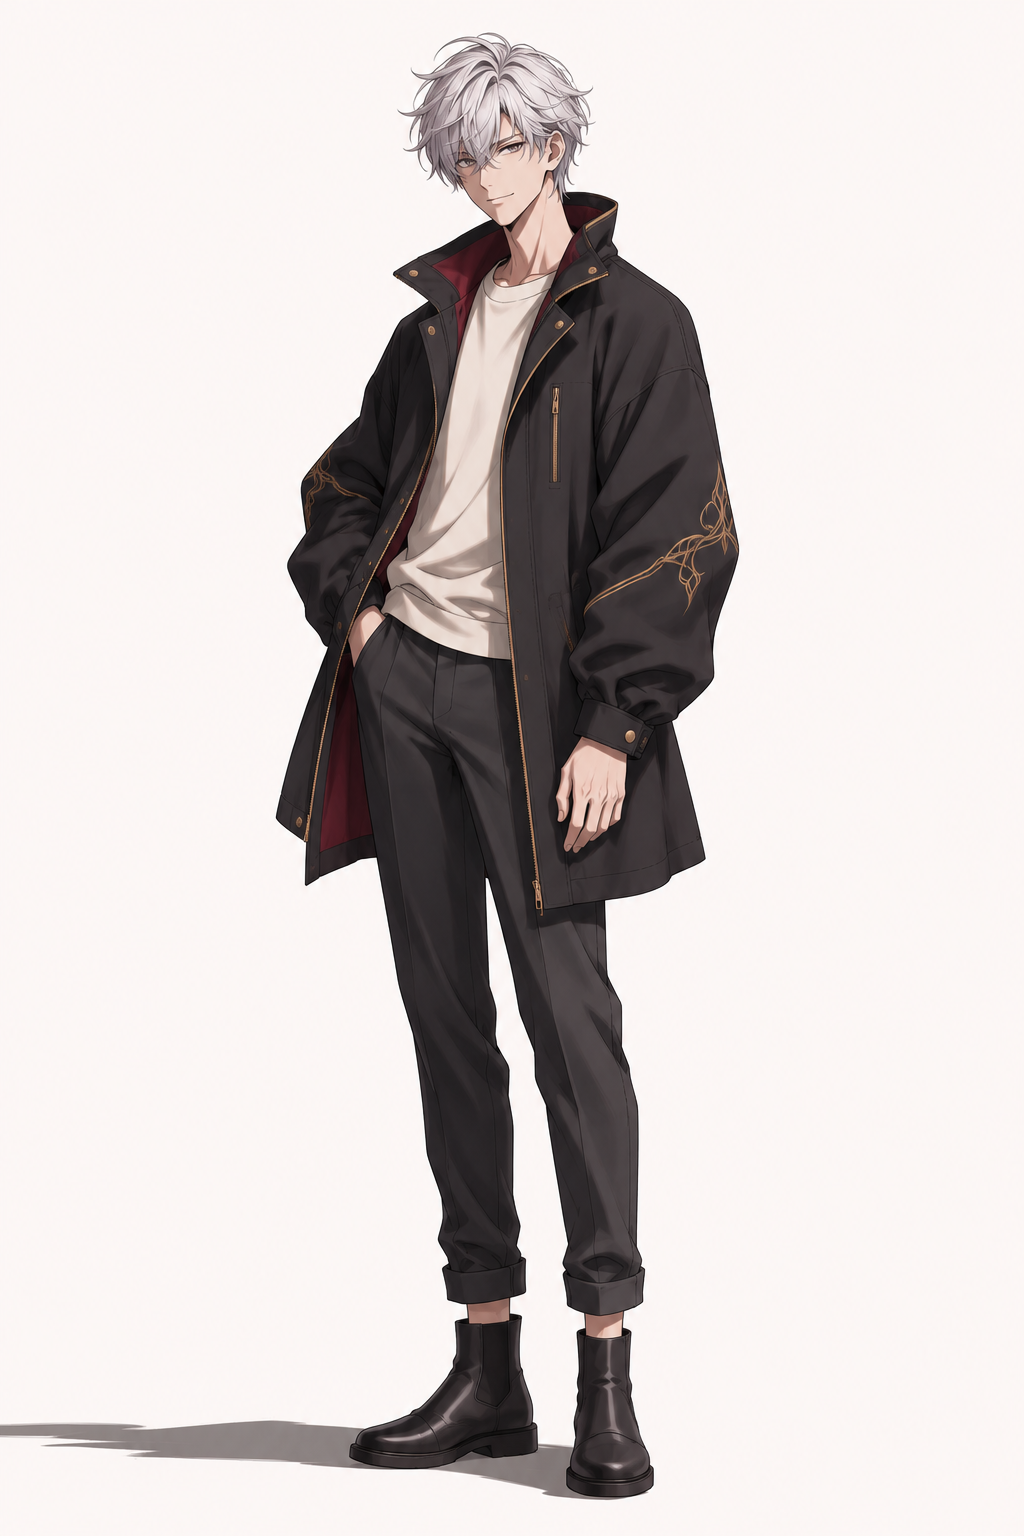
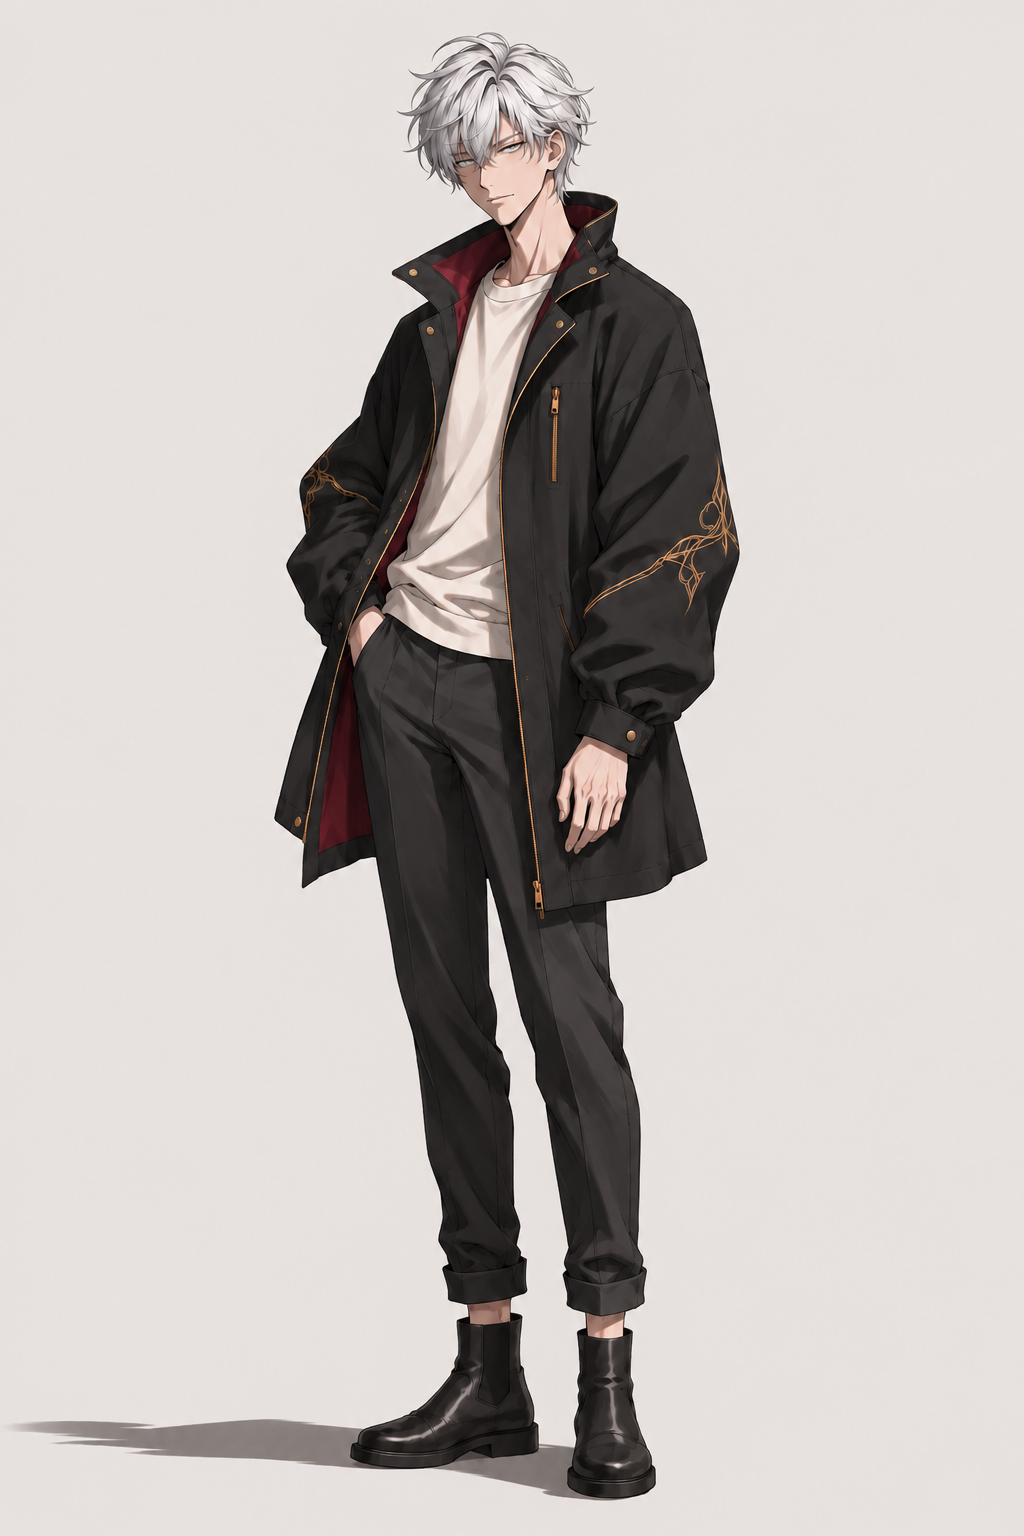
Update member profile visuals

diff --git a/css/member-profile.css b/css/member-profile.css
@@ -9,13 +9,13 @@ a { color: inherit; text-decoration: none; }
 .wordmark { font: 700 21px/1 "Space Grotesk", sans-serif; letter-spacing: .14em; }
 .back-link { padding: 10px 0; color: #4d4b48; }
 .profile-hero { min-height: calc(100svh - 74px); display: grid; grid-template-columns: minmax(360px, .95fr) 1.05fr; border-bottom: 1px solid var(--line); }
-.portrait-panel { position: relative; min-height: 650px; overflow: hidden; background: #d8d4cb; }
+.portrait-panel { position: relative; min-height: 650px; display: flex; align-items: center; justify-content: center; overflow: hidden; background: #EAE6E4; }
 .portrait-panel::after { content: ""; position: absolute; inset: 0; background: linear-gradient(180deg, rgba(0,0,0,.04), rgba(0,0,0,.16)); pointer-events: none; }
-.portrait-panel img { display: block; width: 100%; height: 100%; object-fit: cover; object-position: center top; }
+.portrait-panel img { display: block; width: min(88%, 560px); height: auto; max-height: calc(100% - 48px); object-fit: contain; }
 .portrait-index { position: absolute; z-index: 1; top: 26px; left: 28px; margin: 0; color: #fff; font: 500 11px/1 "DM Mono", monospace; letter-spacing: .12em; }
-.intro-panel { align-self: center; padding: clamp(55px, 8vw, 130px); }
+.intro-panel { align-self: start; padding: clamp(42px, 5vw, 76px) clamp(55px, 8vw, 130px); }
 .eyebrow, .section-label { font: 500 11px/1.4 "DM Mono", monospace; color: var(--accent); letter-spacing: .1em; }
-h1 { margin: 19px 0 34px; font: 600 clamp(65px, 9vw, 142px)/.78 "Noto Serif KR", serif; letter-spacing: -.07em; }
+h1 { margin: 19px 0 34px; font: 600 clamp(52px, 7.2vw, 114px)/.78 "Noto Serif KR", serif; letter-spacing: -.07em; }
 h1 span { display: block; margin-top: 24px; font: 500 13px/1 "DM Mono", monospace; letter-spacing: .19em; }
 .lead { margin: 0; font-size: clamp(18px, 2vw, 25px); line-height: 1.8; letter-spacing: -.04em; }
 .quote { margin: 44px 0; padding-left: 18px; border-left: 2px solid var(--accent); color: #55514d; font-size: 15px; line-height: 1.9; }
@@ -23,8 +23,13 @@ h1 span { display: block; margin-top: 24px; font: 500 13px/1 "DM Mono", monospac
 .profile-facts div { padding: 17px 0; border-bottom: 1px solid var(--line); }
 .profile-facts div:nth-child(odd) { padding-right: 18px; }.profile-facts div:nth-child(even) { padding-left: 18px; border-left: 1px solid var(--line); }
 dt { margin-bottom: 7px; font: 500 10px/1 "DM Mono", monospace; color: var(--muted); letter-spacing: .1em; } dd { margin: 0; font-size: 13px; }
+.taehwi-companion { width: min(46%, 240px); margin: 26px 0 0 auto; }.taehwi-companion img { display: block; width: 100%; height: auto; }
+.ruon-companion { width: min(46%, 240px); margin: 26px 0 0; }.ruon-companion img { display: block; width: 100%; height: auto; }
+.seorin-companion { width: min(46%, 240px); margin: 26px 0 0 auto; }.seorin-companion img { display: block; width: 100%; height: auto; }
+.ryuhyun-companion { width: min(46%, 240px); margin: 36px 12% 0 auto; }.ryuhyun-companion img { display: block; width: 100%; height: auto; }
+.yulgyeom-companion { width: min(46%, 240px); margin: 46px 24% 0 auto; }.yulgyeom-companion img { display: block; width: 100%; height: auto; }
 .story-section { display: grid; grid-template-columns: minmax(180px, .6fr) minmax(0, 1.4fr); gap: 10vw; padding: clamp(70px, 11vw, 170px) clamp(22px, 12vw, 200px); }
 .story-section-alt { background: var(--ink); color: #f5f3ee; }.story-section-alt .section-label { color: #e28b7f; }
 .section-label span { display: inline-block; width: 42px; }.story-copy { max-width: 690px; }.story-copy h2 { margin: 0 0 40px; font-size: clamp(31px, 4vw, 59px); line-height: 1.3; letter-spacing: -.07em; }.story-copy p { margin: 0 0 22px; color: #4f4d49; font-size: 16px; line-height: 2; word-break: keep-all; }.story-section-alt .story-copy p { color: #c6c1ba; }
 footer { padding: 30px 22px; background: var(--ink); color: #9d9b98; text-align: center; font: 10px/1 "DM Mono", monospace; letter-spacing: .1em; }
-@media (max-width: 760px) { .profile-hero, .story-section { grid-template-columns: 1fr; }.portrait-panel { min-height: 580px; }.intro-panel { padding: 64px 28px 72px; }.story-section { gap: 36px; padding: 76px 28px; }.story-copy h2 { margin-bottom: 28px; }.profile-facts { grid-template-columns: 1fr; }.profile-facts div:nth-child(even) { padding-left: 0; border-left: 0; }.profile-facts div:nth-child(odd) { padding-right: 0; } }
+@media (max-width: 760px) { .profile-hero, .story-section { grid-template-columns: 1fr; }.portrait-panel { min-height: 580px; }.portrait-panel img { width: min(84%, 470px); max-height: calc(100% - 48px); }.intro-panel { padding: 48px 28px 72px; }.taehwi-companion, .ruon-companion, .seorin-companion, .ryuhyun-companion, .yulgyeom-companion { width: min(52%, 240px); }.ryuhyun-companion { margin-right: 8%; }.yulgyeom-companion { margin-right: 16%; }.story-section { gap: 36px; padding: 76px 28px; }.story-copy h2 { margin-bottom: 28px; }.profile-facts { grid-template-columns: 1fr; }.profile-facts div:nth-child(even) { padding-left: 0; border-left: 0; }.profile-facts div:nth-child(odd) { padding-right: 0; } }

diff --git a/members/yulgyeom.html b/members/yulgyeom.html
@@ -1,7 +1,7 @@
 <!DOCTYPE html>
 <html lang="ko"><head><meta charset="UTF-8"><meta name="viewport" content="width=device-width, initial-scale=1.0"><title>율겸 | WOLDAM</title><meta name="description" content="WOLDAM 멤버 율겸의 프로필과 이야기"><link rel="stylesheet" href="../css/member-profile.css"></head>
 <body><header class="profile-header"><a class="wordmark" href="../index.html">WOLDAM</a><a class="back-link" href="../index.html#members">← Members</a></header><main>
-<section class="profile-hero"><div class="portrait-panel"><p class="portrait-index">MEMBER 04 / 05</p><img src="../assets/members/율겸/fullbody.png" alt="율겸 전신 이미지"></div><div class="intro-panel"><p class="eyebrow">WOLDAM MEMBER</p><h1>율겸<span>YULGYEOM</span></h1><p class="lead">옳고 그름만 판단하던 수호자가<br>처음으로 규칙 밖의 마음을 배우다.</p><p class="quote">“내일도 재밌으면요?”</p><dl class="profile-facts"><div><dt>ORIGIN</dt><dd>정문계(正門界)</dd></div><div><dt>ROLE</dt><dd>신계의 문을 지킨 수호자</dd></div><div><dt>HEIGHT</dt><dd>183cm</dd></div><div><dt>PERSONALITY</dt><dd>유쾌하고 능글맞은 분위기 메이커</dd></div></dl></div></section>
+<section class="profile-hero"><div class="portrait-panel"><p class="portrait-index">MEMBER 04 / 05</p><img src="../assets/members/율겸/fullbody.png" alt="율겸 전신 이미지"></div><div class="intro-panel"><p class="eyebrow">WOLDAM MEMBER</p><h1>율겸<span>YULGYEOM</span></h1><p class="lead">옳고 그름만 판단하던 수호자가<br>처음으로 규칙 밖의 마음을 배우다.</p><p class="quote">메인 댄서</p><dl class="profile-facts"><div><dt>ORIGIN</dt><dd>정문계(正門界)</dd></div><div><dt>ROLE</dt><dd>신계의 문을 지킨 수호자</dd></div><div><dt>HEIGHT</dt><dd>183cm</dd></div><div><dt>PERSONALITY</dt><dd>유쾌하고 능글맞은 분위기 메이커</dd></div></dl><figure class="yulgyeom-companion"><img src="../assets/members/율겸/haetae.png" alt="율겸의 해태"></figure></div></section>
 <section class="story-section"><div class="section-label"><span>01</span> THE KEEPER OF JUDGMENT</div><div class="story-copy"><h2>옳은 것은 옳고,<br>그른 것은 그른 것.</h2><p>율겸은 신계와 인간 세상의 경계를 지키며 거짓과 진실을 꿰뚫어 보고 판단해 왔다. 그의 세계에서 이치는 단순했다. 잘못에는 대가가 따라야 하고, 심판자는 한 치의 망설임도 없어야 했다.</p><p>그러나 인간들은 누군가를 지키기 위해 거짓말을 하고, 잘못을 저지른 이를 용서하기도 했다. 그 모순은 율겸에게 낯선 질문을 남겼다.</p></div></section>
 <section class="story-section story-section-alt"><div class="section-label"><span>02</span> A RICE CAKE AND MERCY</div><div class="story-copy"><h2>잘못보다 먼저<br>사정을 보게 된 날.</h2><p>흉년의 잔치에서 한 아이가 떡을 몰래 가져갔다. 어른은 아이를 꾸짖는 대신 떡 하나를 더 건넸고, 아이는 병든 어머니에게 그것을 전했다. 율겸은 처음으로 옳고 그름만으로는 모든 마음을 판단할 수 없다는 사실을 마주했다.</p><p>완벽하지 않은 사람들이 서로의 부족함을 받아들이며 웃는 잔치. 그는 임무가 끝나는 밤마다 그 풍악에 귀를 기울이게 되었다.</p></div></section>
 <section class="story-section"><div class="section-label"><span>03</span> THE FIRST LIE</div><div class="story-copy"><h2>심판자가 내린,<br>처음의 일탈.</h2><p>가족을 위해 곡식을 훔친 사내에게 정해진 판결을 내린 뒤, 율겸은 인간들이 말하는 너그러움을 직접 알고 싶어졌다. 처음으로 자신이 지키던 문을 떠난 그는 잔치에서 “그냥 지나가던 사람”이라는 작은 거짓말을 했다.</p><p>사람들과 노래하고 춤추며, 그는 누군가에게 즐거움을 주는 존재가 되는 기쁨을 알았다. 이제 율겸은 팀의 분위기 메이커로서, 잘못 없는 세상보다 다시 웃을 수 있는 세상을 지키고자 한다.</p></div></section></main><footer>© WOLDAM. ALL RIGHTS RESERVED.</footer></body></html>

diff --git a/members/ruon.html b/members/ruon.html
@@ -1,7 +1,7 @@
 <!DOCTYPE html>
 <html lang="ko"><head><meta charset="UTF-8"><meta name="viewport" content="width=device-width, initial-scale=1.0"><title>루온 | WOLDAM</title><meta name="description" content="WOLDAM 멤버 루온의 프로필과 이야기"><link rel="stylesheet" href="../css/member-profile.css"></head>
 <body><header class="profile-header"><a class="wordmark" href="../index.html">WOLDAM</a><a class="back-link" href="../index.html#members">← Members</a></header><main>
-<section class="profile-hero"><div class="portrait-panel"><p class="portrait-index">MEMBER 01 / 05</p><img src="../assets/members/루온/fullbody.png" alt="루온 전신 이미지"></div><div class="intro-panel"><p class="eyebrow">WOLDAM MEMBER</p><h1>루온<span>RUON</span></h1><p class="lead">누군가를 기쁘게 하는 일을<br>자신의 가장 중요한 사명으로 믿는 작은 영물.</p><p class="quote">“너도 즐거워야지.”</p><dl class="profile-facts"><div><dt>ORIGIN</dt><dd>월궁(月宮)</dd></div><div><dt>ROLE</dt><dd>월궁의 떡방아지기</dd></div><div><dt>HEIGHT</dt><dd>175cm</dd></div><div><dt>PERSONALITY</dt><dd>성실하고 책임감 강한 막내</dd></div></dl></div></section>
+<section class="profile-hero"><div class="portrait-panel"><p class="portrait-index">MEMBER 01 / 05</p><img src="../assets/members/루온/fullbody.png" alt="루온 전신 이미지"></div><div class="intro-panel"><p class="eyebrow">WOLDAM MEMBER</p><h1>루온<span>RUON</span></h1><p class="lead">누군가를 기쁘게 하는 일을<br>자신의 가장 중요한 사명으로 믿는 작은 영물.</p><p class="quote">메인 보컬</p><dl class="profile-facts"><div><dt>ORIGIN</dt><dd>월궁(月宮)</dd></div><div><dt>ROLE</dt><dd>월궁의 떡방아지기</dd></div><div><dt>HEIGHT</dt><dd>175cm</dd></div><div><dt>PERSONALITY</dt><dd>성실하고 책임감 강한 막내</dd></div></dl><figure class="ruon-companion"><img src="../assets/members/루온/moon-rabbit.png" alt="루온의 달토끼"></figure></div></section>
 <section class="story-section"><div class="section-label"><span>01</span> THE MOON PALACE</div><div class="story-copy"><h2>매일 같은 시간,<br>누군가의 풍요를 위해.</h2><p>루온은 보름달이 뜰 때마다 인간들이 풍요롭게 살기를 바라며 월궁에서 떡방아를 찧었다. 한 번도 늦잠을 자지 않고, 정해진 일을 미루지도 않았다. 그에게 자신의 일은 무엇보다 중요한 약속이었다.</p><p>다만 월궁은 인간 세상과 너무 멀었다. 자신이 만든 떡을 먹은 사람들이 얼마나 행복해하는지는 직접 볼 수 없었다.</p></div></section>
 <section class="story-section story-section-alt"><div class="section-label"><span>02</span> A SONG HEARD BELOW</div><div class="story-copy"><h2>처음으로,<br>기쁨이 바로 닿았다.</h2><p>어느 추석날 호기심을 이기지 못하고 인간 세상으로 내려온 루온은 가족들이 송편을 나누고 노래를 부르는 모습을 마주한다. 자신도 모르게 노래를 따라 부르자, 곁의 아이가 환하게 웃으며 말했다. “노래 진짜 잘한다!”</p><p>떡을 만들 때보다 더 직접적으로 누군가를 기쁘게 할 수 있다는 사실. 그 순간이 루온을 노래로 이끌었다.</p></div></section>
 <section class="story-section"><div class="section-label"><span>03</span> THE RESPONSIBLE MAKNAE</div><div class="story-copy"><h2>꼼꼼하게 준비한<br>새로운 사명.</h2><p>인간 세상에 오기 전, 루온은 월궁의 토끼들에게 자신의 일을 직접 가르치고 모든 일을 정리했다. 가장 작고 어린 멤버지만 준비성만큼은 누구보다 철저한 이유다.</p><p>지금도 그는 연습 시간표를 챙기고 형들의 지각을 단속한다. 무대에서는 실수로 관객을 실망시킬까 가장 긴장하지만, 첫 소절이 시작되면 맑고 아름다운 목소리로 모두를 기쁘게 한다.</p></div></section></main><footer>© WOLDAM. ALL RIGHTS RESERVED.</footer></body></html>

diff --git a/members/ryuhyun.html b/members/ryuhyun.html
@@ -1,7 +1,7 @@
 <!DOCTYPE html>
 <html lang="ko"><head><meta charset="UTF-8"><meta name="viewport" content="width=device-width, initial-scale=1.0"><title>류현 | WOLDAM</title><meta name="description" content="WOLDAM 멤버 류현의 프로필과 이야기"><link rel="stylesheet" href="../css/member-profile.css"></head>
 <body><header class="profile-header"><a class="wordmark" href="../index.html">WOLDAM</a><a class="back-link" href="../index.html#members">← Members</a></header><main>
-<section class="profile-hero"><div class="portrait-panel"><p class="portrait-index">MEMBER 02 / 05</p><img src="../assets/members/류현/fullbody.png" alt="류현 전신 이미지"></div><div class="intro-panel"><p class="eyebrow">WOLDAM MEMBER</p><h1>류현<span>RYUHYUN</span></h1><p class="lead">평생 하늘만 바라보던 존재가<br>처음으로 다른 삶을 선택한 순간.</p><p class="quote">“더 높은 곳보다, 지금 저 아래가 궁금했다.”</p><dl class="profile-facts"><div><dt>ORIGIN</dt><dd>잠룡연(潛龍淵)</dd></div><div><dt>ROLE</dt><dd>승천을 기다린 영물</dd></div><div><dt>HEIGHT</dt><dd>189cm</dd></div><div><dt>PERSONALITY</dt><dd>과묵하지만 속정 깊은 관찰자</dd></div></dl></div></section>
+<section class="profile-hero"><div class="portrait-panel"><p class="portrait-index">MEMBER 02 / 05</p><img src="../assets/members/류현/fullbody.png" alt="류현 전신 이미지"></div><div class="intro-panel"><p class="eyebrow">WOLDAM MEMBER</p><h1>류현<span>RYUHYUN</span></h1><p class="lead">평생 하늘만 바라보던 존재가<br>처음으로 다른 삶을 선택한 순간.</p><p class="quote">서브 보컬</p><dl class="profile-facts"><div><dt>ORIGIN</dt><dd>잠룡연(潛龍淵)</dd></div><div><dt>ROLE</dt><dd>승천을 기다린 영물</dd></div><div><dt>HEIGHT</dt><dd>189cm</dd></div><div><dt>PERSONALITY</dt><dd>과묵하지만 속정 깊은 관찰자</dd></div></dl><figure class="ryuhyun-companion"><img src="../assets/members/류현/imugi.png" alt="류현의 이무기"></figure></div></section>
 <section class="story-section"><div class="section-label"><span>01</span> THE DEEP DRAGON POOL</div><div class="story-copy"><h2>수백 년 동안,<br>오직 승천을 위해.</h2><p>류현은 하늘에 닿지 못하는 깊은 용소, 잠룡연에서 오랫동안 살았다. 그의 꿈은 단 하나, 용이 되어 하늘로 오르는 것이었다. 마을과 왕조가 바뀌는 세월에도 그는 물속에서 수행하며 자신의 운명을 기다렸다.</p><p>더 높은 곳에 도달하는 일만이 자신에게 주어진 삶이라고 믿었다.</p></div></section>
 <section class="story-section story-section-alt"><div class="section-label"><span>02</span> THE NIGHT OF RAIN</div><div class="story-copy"><h2>하늘로 향하던 몸을<br>멈추게 한 노래.</h2><p>마침내 승천의 기회가 찾아온 폭우의 밤, 강가 마을에서는 물에 잠긴 집을 정리하던 사람들이 겁에 질린 아이를 위해 노래를 불렀다. 한 사람의 목소리는 어느새 마을 전체의 노래가 되었다.</p><p>류현은 하늘로 올라가던 것을 멈추고 물살을 가라앉혔다. 수백 년 동안 기다린 하늘보다, 서로를 다독이는 사람들의 목소리가 더 궁금해졌기 때문이다.</p></div></section>
 <section class="story-section"><div class="section-label"><span>03</span> STAYING HERE</div><div class="story-copy"><h2>지금 이 순간에<br>머물러도 괜찮다는 말.</h2><p>그날 이후 류현은 인간의 모습으로 세상을 떠돌았다. 음악은 평생 더 높은 곳만 바라보던 그에게, 지금 이 순간에 머물러도 괜찮다고 말해 주는 듯했다.</p><p>팀에서 가장 말수는 적지만, 멤버들의 상태를 누구보다 세심하게 챙긴다. 무대 위 관객들이 함께 노래하는 순간에만 희미하게 웃는 이유는, 그가 선택한 이곳에 대한 대답일지도 모른다.</p></div></section></main><footer>© WOLDAM. ALL RIGHTS RESERVED.</footer></body></html>

diff --git a/members/taehwi.html b/members/taehwi.html
@@ -1,7 +1,7 @@
 <!DOCTYPE html>
 <html lang="ko"><head><meta charset="UTF-8"><meta name="viewport" content="width=device-width, initial-scale=1.0"><title>태휘 | WOLDAM</title><meta name="description" content="WOLDAM 멤버 태휘의 프로필과 이야기"><link rel="stylesheet" href="../css/member-profile.css"></head>
 <body><header class="profile-header"><a class="wordmark" href="../index.html">WOLDAM</a><a class="back-link" href="../index.html#members">← Members</a></header><main>
-<section class="profile-hero"><div class="portrait-panel"><p class="portrait-index">MEMBER 05 / 05</p><img src="../assets/members/태휘/fullbody.png" alt="태휘 전신 이미지"></div><div class="intro-panel"><p class="eyebrow">WOLDAM MEMBER</p><h1>태휘<span>TAEHWI</span></h1><p class="lead">태양의 빛 속에서 태어났지만,<br>스스로 빛나는 법을 찾고 싶은 영물.</p><p class="quote">“한 번 더!”</p><dl class="profile-facts"><div><dt>ORIGIN</dt><dd>일천궁(日天宮)</dd></div><div><dt>ROLE</dt><dd>태양의 길을 살핀 영물</dd></div><div><dt>HEIGHT</dt><dd>182cm</dd></div><div><dt>PERSONALITY</dt><dd>자신감 넘치고 자유분방한 에너지</dd></div></dl></div></section>
+<section class="profile-hero"><div class="portrait-panel"><p class="portrait-index">MEMBER 05 / 05</p><img src="../assets/members/태휘/fullbody.png" alt="태휘 전신 이미지"></div><div class="intro-panel"><p class="eyebrow">WOLDAM MEMBER</p><h1>태휘<span>TAEHWI</span></h1><p class="lead">태양의 빛 속에서 태어났지만,<br>스스로 빛나는 법을 찾고 싶은 영물.</p><p class="quote">래퍼</p><dl class="profile-facts"><div><dt>ORIGIN</dt><dd>일천궁(日天宮)</dd></div><div><dt>ROLE</dt><dd>태양의 길을 살핀 영물</dd></div><div><dt>HEIGHT</dt><dd>182cm</dd></div><div><dt>PERSONALITY</dt><dd>자신감 넘치고 자유분방한 에너지</dd></div></dl><figure class="taehwi-companion"><img src="../assets/members/태휘/samjogo.png" alt="태휘의 삼족오"></figure></div></section>
 <section class="story-section"><div class="section-label"><span>01</span> THE SUN PALACE</div><div class="story-copy"><h2>가장 찬란한 빛 속에서,<br>자신의 선택은 없었다.</h2><p>태휘는 태양의 불꽃 속에서 태어나 매일 해가 뜨고 지는 길을 살폈다. 아침에는 태양과 함께 하늘을 날고, 저녁에는 붉은 노을 속으로 돌아갔다. 수백 년 동안 단 하루도 빠짐없이 이어진 일이었다.</p><p>모두가 그를 경외했지만, 태휘에게는 스스로 선택한 것이 단 하나도 없었다.</p></div></section>
 <section class="story-section story-section-alt"><div class="section-label"><span>02</span> LIGHT AFTER SUNSET</div><div class="story-copy"><h2>해가 진 뒤에도<br>스스로 밝아지는 밤.</h2><p>어느 날 밤, 인간 세상의 마을에서는 수많은 등불 아래 사람들이 노래하고 춤추고 있었다. 해가 지면 하루가 끝나는 태휘에게, 원하는 만큼 밤을 즐기는 사람들의 모습은 낯설고도 강렬했다.</p><p>그날 그는 정해진 길을 벗어나 축제가 끝날 때까지 하늘에 머물렀다. 처음으로 자신의 의지로 멈춘 순간이었다.</p></div></section>
 <section class="story-section"><div class="section-label"><span>03</span> ONE MORE TIME</div><div class="story-copy"><h2>태양을 따르던 날개를,<br>이제는 무대를 위해.</h2><p>인간 세상에 내려온 태휘는 축제에서 내밀어진 손을 잡고 춤을 췄다. 하늘을 가르며 익혀 온 날렵한 움직임에 사람들은 환호했고, “한 번 더!”라는 외침은 그를 멈추지 않게 했다.</p><p>팀에서 가장 화려하고 자유분방한 태휘는 이제 자신의 의지로 무대에 선다. 모두가 떠난 연습실에서 하늘을 올려다보기도 하지만, 자신이 선택한 이 길을 후회하지 않는다.</p></div></section></main><footer>© WOLDAM. ALL RIGHTS RESERVED.</footer></body></html>

diff --git a/members/seorin.html b/members/seorin.html
@@ -23,13 +23,14 @@
                 <p class="eyebrow">WOLDAM MEMBER</p>
                 <h1>서린<span>SEORIN</span></h1>
                 <p class="lead">타인의 마음은 누구보다 잘 헤아리지만,<br>정작 자신의 마음은 아직 모르는 구미호.</p>
-                <p class="quote">“아무런 술법 없이도, 내가 부르는 이름을<br>사람들이 찾아와 줄까?”</p>
+                <p class="quote">리드 보컬</p>
                 <dl class="profile-facts">
                     <div><dt>ORIGIN</dt><dd>백월림(白月林)</dd></div>
                     <div><dt>SPECIES</dt><dd>구미호</dd></div>
                     <div><dt>HEIGHT</dt><dd>181cm</dd></div>
                     <div><dt>PERSONALITY</dt><dd>온화하고 다정한 관찰자</dd></div>
                 </dl>
+                <figure class="seorin-companion"><img src="../assets/members/seorin/gumiho.png" alt="서린의 구미호"></figure>
             </div>
         </section>
 
